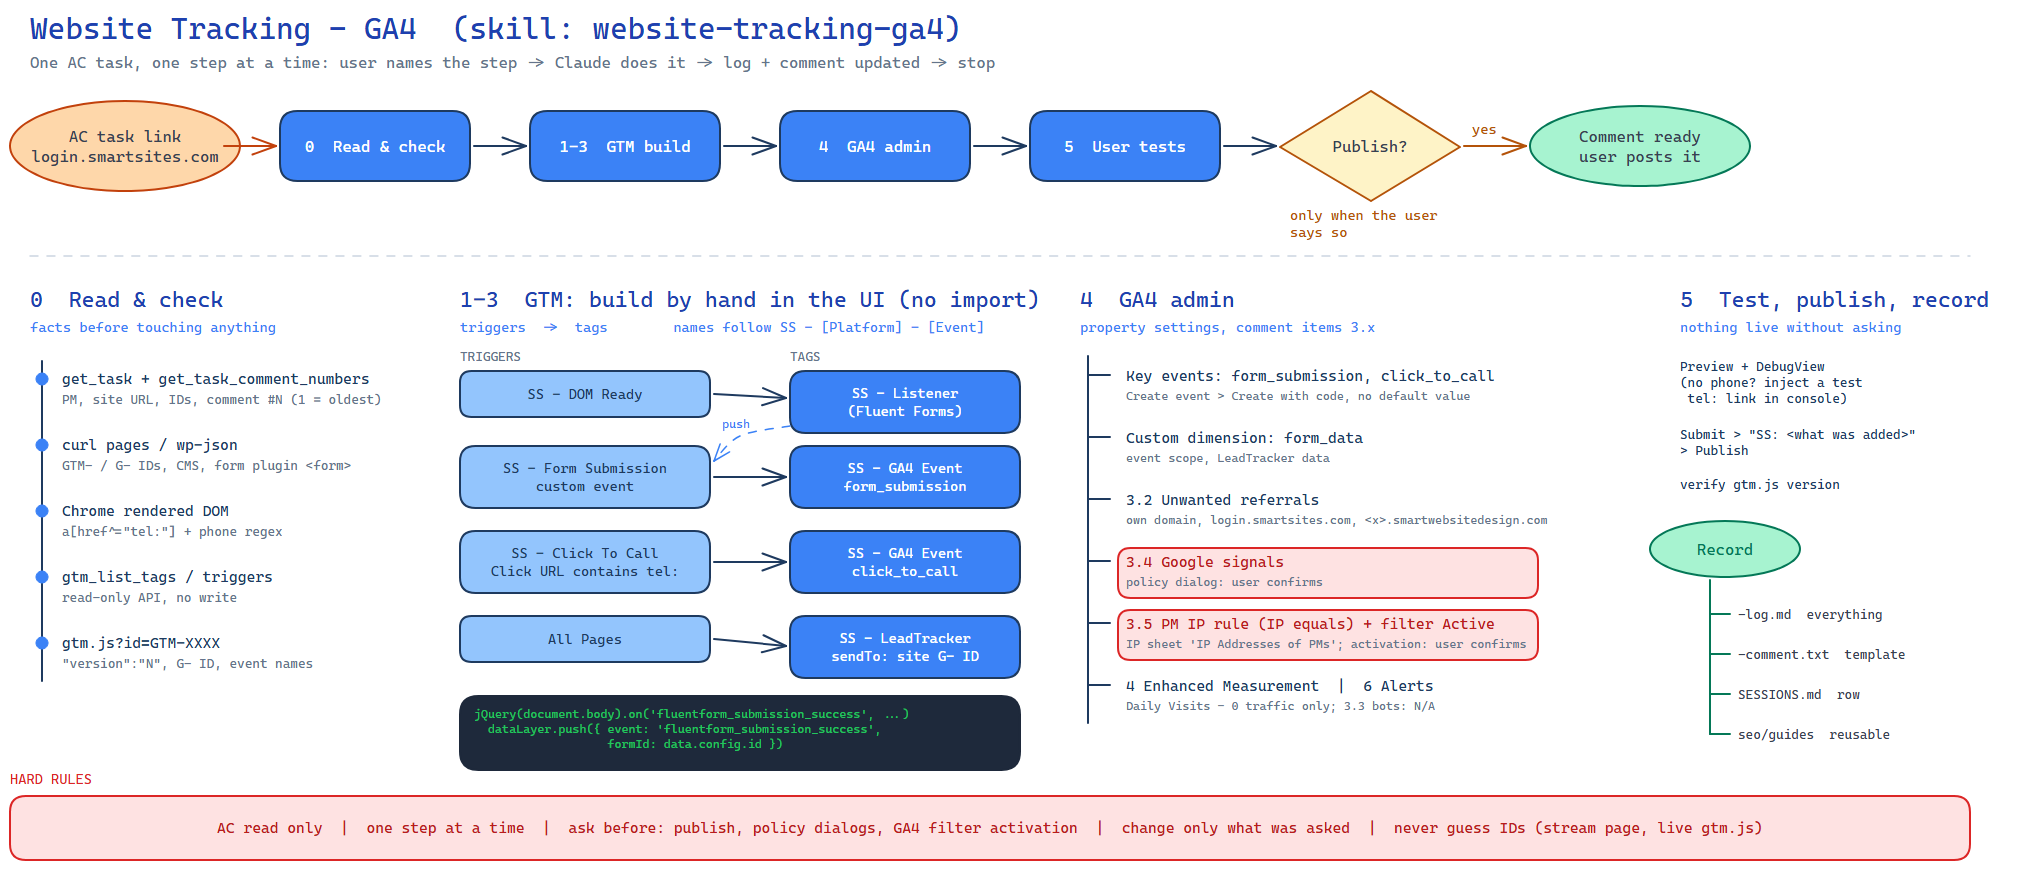
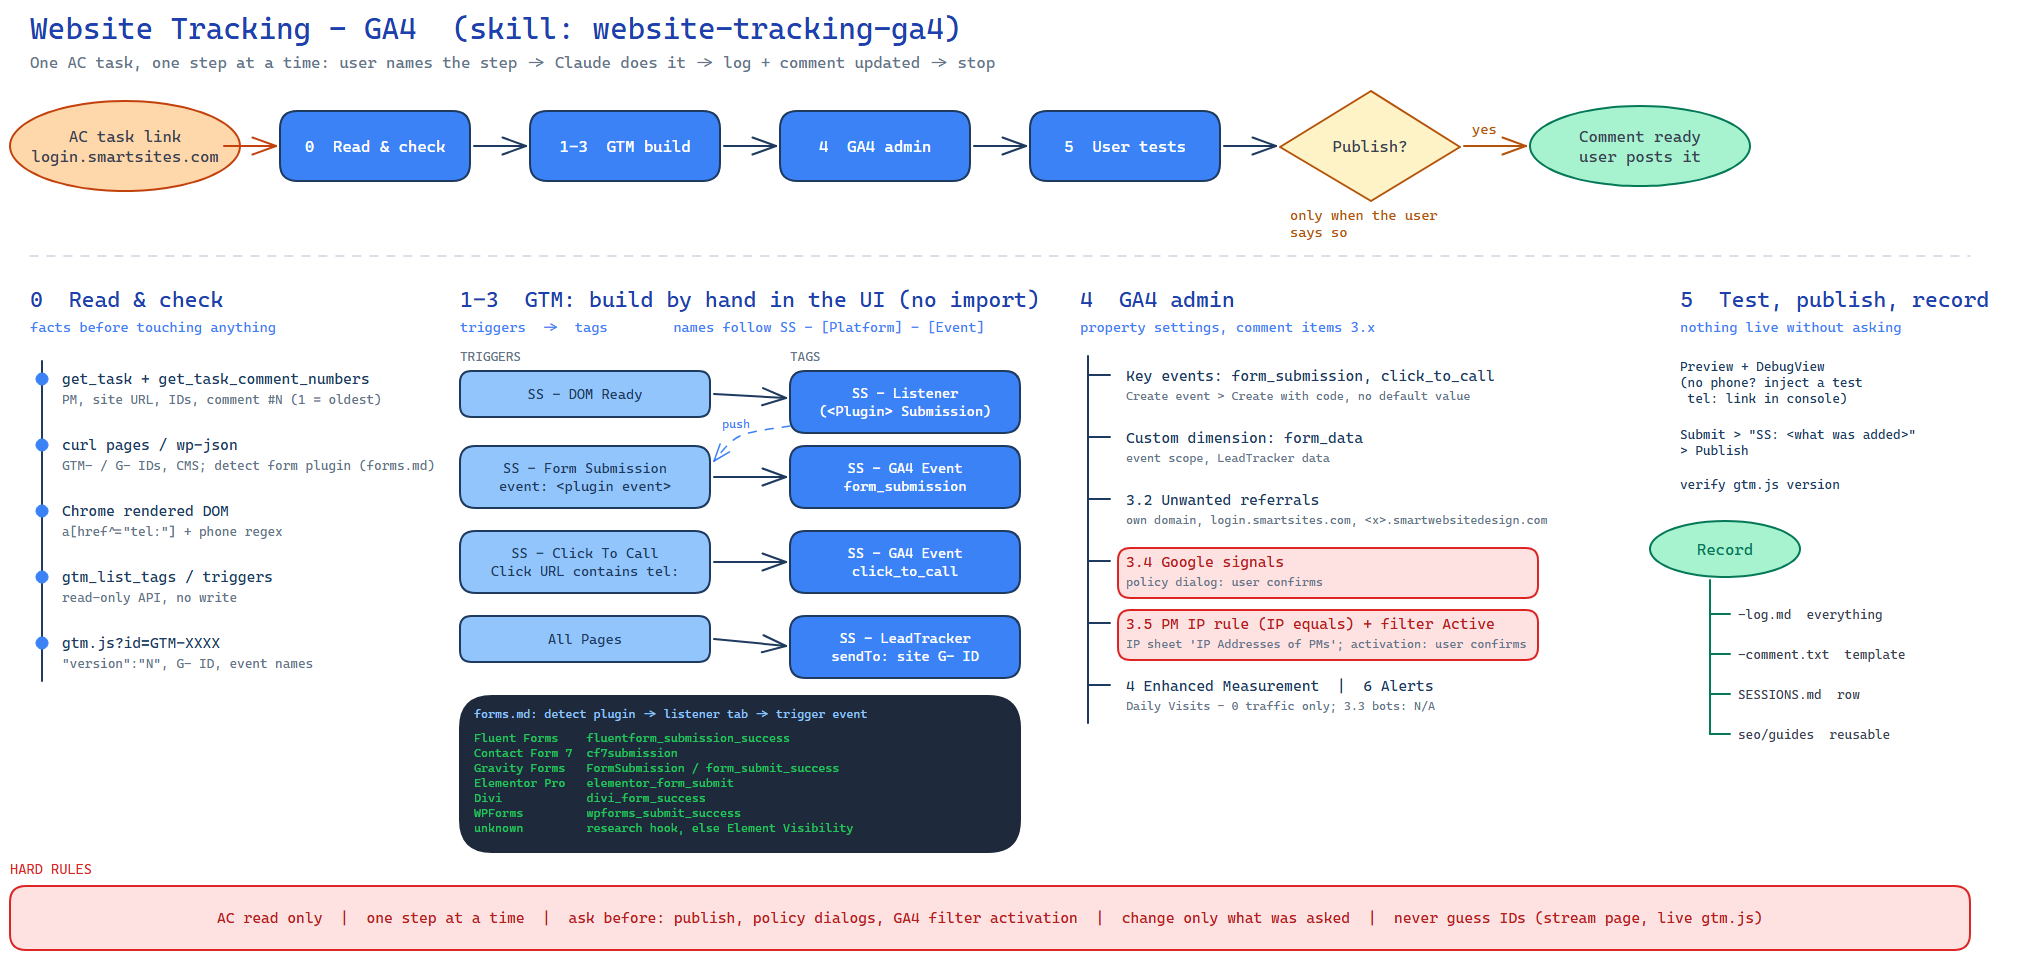
Make website-tracking-ga4 skill form-plugin agnostic
- forms.md: detect the form plugin (Chrome snippet), pick method A/B/C,
  per-plugin listener table from the "Anil Notes for Tracking - GA4" doc
  (Fluent, CF7, Gravity, Elementor, MetForm, Divi, Forminator, WPForms,
  Ninja, Fusion, HubSpot, custom LP) with the custom event for the
  SS - Form Submission trigger, unknown-plugin research steps, iframe
  limits, LeadTracker variants, per-plugin test.
- SKILL.md: Step 0/2/3 point to forms.md; fixed tag/trigger names.
- workflow diagram: listener/trigger generic, plugin -> event lookup.

diff --git a/website-tracking-ga4/forms.md b/website-tracking-ga4/forms.md
@@ -1,0 +1,68 @@
+# Forms: detect the plugin, pick the method, wire the trigger
+
+The GA4 side never changes: tag `SS - GA4 Event (Form Submission)`, event `form_submission`, params `form_name` (and `form_id` if the listener provides one), fired by trigger `SS - Form Submission`. **Only the trigger and listener change per form plugin.**
+
+Listener scripts: "Anil Notes for Tracking - GA4" doc https://docs.google.com/document/d/1RgYdzidICicV3PXqn7yRA7zD5ZoV6X4jvteBq77ffM8 (one tab per plugin; read it with `docs_get(include_tabs=true)` and copy the tab's script exactly).
+
+## 1. Detect (every form page, not just /contact/)
+List the pages that have forms (sitemap / `wp-json/wp/v2/pages`, then grep each page for `<form` and `<iframe`). On each form page, run this in Chrome (`javascript_tool`):
+
+```js
+(() => {
+  const sig = {
+    'Fluent Forms': 'form.frm-fluent-form', 'Contact Form 7': '.wpcf7 form', 'Gravity Forms': '.gform_wrapper form',
+    'Elementor Pro': 'form.elementor-form', 'MetForm': '.metform-form-content, .mf-form-wrapper', 'Divi': '.et_pb_contact_form',
+    'Forminator': 'form.forminator-custom-form', 'WPForms': 'form.wpforms-form', 'Ninja Forms': '.nf-form-cont',
+    'Formidable': 'form.frm-show-form', 'Avada/Fusion': 'form.fusion-form',
+    'HubSpot': '.hs-form, form[id^="hsForm_"], iframe[src*="hsforms"]',
+    'Iframe form (Typeform/Jotform/Google/other)': 'iframe[src*="typeform"], iframe[src*="jotform"], iframe[src*="google.com/forms"]'
+  };
+  return { found: Object.entries(sig).filter(([, s]) => document.querySelector(s)).map(([k]) => k),
+           forms: [...document.forms].map(f => ({ id: f.id, cls: f.className, action: f.action })) };
+})()
+```
+
+Also check what happens after a successful submit: is there a redirect to a thank-you URL, or an in-page message? Look at the plugin's form settings in WP admin if you have access; otherwise ask the user to do one test submit. Note it in the log.
+
+## 2. Pick the method (manual §6.1)
+| Situation | Method | Trigger `SS - Form Submission` |
+|---|---|---|
+| Redirects to a thank-you URL | **A** | Page View, Page URL contains `thank-you` (the real path) |
+| Plain HTML post, no AJAX, no redirect | **B** | Form Submission, Wait for Tags + Check Validation ON, optional Form ID filter |
+| AJAX / JS plugin (most WP plugins, HubSpot) | **C** | Custom Event = the listener's event (table below) + listener tag |
+| Plugin not in the table / no listener works | **C-fallback** | Element Visibility on the success-message selector, "Observe DOM changes" ON, once per page. Make sure the selector **cannot** match the error message |
+| Iframe from another domain (Typeform, Jotform, Google Forms...) | none from GTM | Can't track inside the iframe. Use the provider's redirect to a thank-you page (method A) or its own GA integration; tell the user and the PM |
+
+## 3. Plugin table (method C)
+| Plugin | Doc tab / source | Listener hooks | Custom Event for the trigger | Notes |
+|---|---|---|---|---|
+| Fluent Forms | `seo/guides/tracking/set-up-ga4-form-and-call-events.md` (Platform notes) | `jQuery(document.body)` `fluentform_submission_success` | `fluentform_submission_success` | Pushes `formId` (`DLV - formId`) |
+| Contact Form 7 | "CF7 Listener" | DOM event `wpcf7mailsent` | `cf7submission` | Fires only when the mail was sent |
+| Gravity Forms | "Gravity Form Listener" | several variants: PHP `gform_confirmation` (needs theme/hosting access) or JS | `FormSubmission` (PHP) / `form_submit_success` (JS) | Use the variant the tab marks for GTM; the PHP one needs a code change, so ask first |
+| Elementor Pro forms | "Elementor Forms" | XHR on `admin-ajax.php`, action `elementor_pro_forms_send_form` | `elementor_form_submit` | Alternative from the same tab: Element Visibility `.elementor-widget-form[data-id] form.elementor-form .elementor-message-success` |
+| Elementor + MetForm add-on | "Elementor W/ MetFrom adon" | `metform_response_success` | `elementor_form_submit` | |
+| MetForm | "Metform Listener" | success text visible in `.mf-response-msg p` | `metform_success` | Check that `SUCCESS_TEXT` matches the site's message |
+| Divi contact form | "Divi Form Listener" | jQuery `ajaxSuccess` on `et_pb_contactform` POST | `divi_form_success` | Skips responses with `.et_pb_contact_error_text` |
+| Forminator | "Forminator Form Listener" | `forminator:form:submit:success` | `forminator_form_submit` | Pushes `form_id` |
+| WPForms | "WPForms" | AJAX confirmation container / submit-success variant | `wpforms_submit_success` or `wpform_submit` | Several variants; use the one that matches the form's confirmation type |
+| Ninja Forms | "LT for Ninja Form" | `nfFormSubmitResponse` | `ninjaFormSubmission` | That tab also loads LeadTracker |
+| Avada / Fusion | "Fusion Form Listener" | `fusion-form-ajax-submit-done` | `form_submit` | |
+| HubSpot (embed v4) | "HS Form Listener (v4)" | `hs-form-event:on-submission:success` / `message` | `form_submission` | Same tab has the HubSpot LeadTracker loader; iframe embeds can't be read |
+| Custom landing page | "Custom LP DL" | input + submit | `form_submit_success` | |
+| Unknown plugin | research (below) | — | your own `<plugin>_submit_success` | Add a row here and a tab note in the log |
+
+Name the listener tag `SS - Listener (<Plugin> Submission)`, fired on `SS - DOM Ready` (or All Pages if the listener script waits for the DOM itself). Name the trigger `SS - Form Submission` whichever method is used, so the GA4 tag never changes. If the site has **two plugins**, make one trigger per plugin (`SS - Form Submission (CF7)`, ...) and attach all of them to the same GA4 tag.
+
+## 4. Unknown plugin: find the success hook (what was done for Fluent Forms)
+1. Find the plugin's front-end JS in the page (`<script src=".../plugins/<plugin>/...js">`) and grep it for `success`, `trigger(`, `triggerHandler(`, `dispatchEvent`, `CustomEvent`. Note on which element the event fires (document/body bubbles; a `triggerHandler` on the form does **not**).
+2. If there is no event: watch the Network tab during a test submit and hook the XHR/fetch response (pattern: the "Elementor Forms" or "Divi" tabs).
+3. Last resort: Element Visibility on the success message (method C-fallback).
+4. Write the result into this table and into the seo guide's Platform notes.
+
+## 5. LeadTracker and the form
+- Standard LeadTracker hooks the form's `submit`. It works for native and AJAX forms (if the plugin already called preventDefault, LeadTracker only sends the data and does not resubmit).
+- If the plugin submits on a **button click without a real `submit` event** (e.g. Formidable `.frm_button_submit`, some Forminator setups), use the doc's "LeadTracker with class name" variant: `$('<submit button selector>').click(function () { LeadTracker($).sendData($(this).closest('form')); })`.
+- Iframe forms: LeadTracker can't see them either.
+
+## 6. Test per plugin
+Submit once valid and once with a required field empty. The custom event (or page view / visibility event) must appear **once**, only on success, and `SS - GA4 Event (Form Submission)` must fire. DebugView shows `form_submission`.

diff --git a/website-tracking-ga4/SKILL.md b/website-tracking-ga4/SKILL.md
@@ -1,12 +1,13 @@
 ---
 name: website-tracking-ga4
-description: Work a SmartSites ActiveCollab "Website Tracking - GA4" task end to end — read the AC task (read only), check the site, build GTM tags (GA4 page view, form_submission, click_to_call, LeadTracker) in the browser, configure GA4 admin (key events, form_data dimension, unwanted referrals, Google signals, PM IP filter, Enhanced Measurement, alerts), publish GTM on the user's say-so, and draft the AC comment from the template. Use when the user gives a login.smartsites.com task link titled "Website Tracking - GA4", or asks for GA4/GTM/LeadTracker/key-event/referral-exclusion/PM-IP setup on a client site.
+description: Work a SmartSites ActiveCollab "Website Tracking - GA4" task end to end — read the AC task (read only), check the site and detect its form plugin (CF7, Gravity, Elementor, Fluent, WPForms, Divi, HubSpot, ...), build GTM tags (GA4 page view, form_submission via the right per-plugin listener, click_to_call, LeadTracker) in the browser, configure GA4 admin (key events, form_data dimension, unwanted referrals, Google signals, PM IP filter, Enhanced Measurement, alerts), publish GTM on the user's say-so, and draft the AC comment from the template. Use when the user gives a login.smartsites.com task link titled "Website Tracking - GA4", or asks for GA4/GTM/LeadTracker/key-event/referral-exclusion/PM-IP setup on a client site.
 ---
 
 # Website Tracking - GA4 (SmartSites)
 
 Worked example: `D:\work\seo\Website Tracking - GA4\catalystluxuryresidential.com\10-29-2026-504272-log.md` (WordPress + Divi + Fluent Forms, existing GA4, no phone number, 2026-10-30).
-Form/call how-to (methods A/B/C, Fluent Forms listener, Preview + DebugView testing): `D:\work\seo\guides\tracking\set-up-ga4-form-and-call-events.md`.
+**Forms differ per site:** `forms.md` (next to this file) covers plugin detection, choosing the method, the listener and event per plugin, and unknown plugins.
+Form/call testing how-to (Preview + DebugView): `D:\work\seo\guides\tracking\set-up-ga4-form-and-call-events.md`.
 Workflow diagram: `workflow.png` (source `workflow.excalidraw`, open at excalidraw.com).
 
 ## Hard rules
@@ -24,7 +25,7 @@ Workflow diagram: `workflow.png` (source `workflow.excalidraw`, open at excalidr
 
 ## Step 0 — Read and check
 1. `get_task`, `get_task_comments(limit 0)`, `get_task_comment_numbers`. Note the PM, the site URL (confirm it; the AC project name can differ from the domain), GTM/GA4 IDs already mentioned, and the requested conversions.
-2. Site: `curl` the pages (sitemap / `wp-json/wp/v2/pages`). Look for: GTM-/G-/AW- IDs, CMS/theme, form plugin (`<form` classes), `tel:` links and phone text. Recheck phones in the **rendered** DOM in Chrome (`a[href^="tel:"]`, a regex on `innerText`).
+2. Site: `curl` the pages (sitemap / `wp-json/wp/v2/pages`). Look for: GTM-/G-/AW- IDs, CMS/theme, form plugin on every form page (run the detect snippet in forms.md §1), what happens after a submit (redirect or in-page message), `tel:` links and phone text. Recheck phones in the **rendered** DOM in Chrome (`a[href^="tel:"]`, a regex on `innerText`).
 3. GTM contents via API: `gtm_list_tags/triggers/variables` with `accounts/<acc>/containers/<id>` (read only; there is no write API).
 4. Live container: `curl "https://www.googletagmanager.com/gtm.js?id=GTM-XXXX"` and grep `"version"`, the G- ID and the event names.
 
@@ -47,10 +48,12 @@ Workflow diagram: `workflow.png` (source `workflow.excalidraw`, open at excalidr
 - Import the BED template GTM-PFVL7Z84 "! Template for Exclude Internal Traffic in GA4" (Merge into the workspace). Rename the example Google tag to `SS - GA4 Page View` with the property's G- ID. On WordPress, rename tag "...Save Internal Traffic Type (Optional, only for wordpress sites)" to drop the "(Optional...)" part. Check the Page View tag's configuration parameters include the traffic type, otherwise the template's exclusions don't reach GA4.
 
 ## Step 2 — Form + call events (manual §6)
-Follow the guide. Names: triggers `SS - Form Submission`, `SS - Click To Call` (Just Links, Click URL contains `tel:`); tags `SS - GA4 Event (Form Submission)` (event `form_submission`, `form_name`, `form_id`), `SS - GA4 Event (Click To Call)` (event `click_to_call`, `click_url = {{Click URL}}`). Enable built-ins Click URL and Click Text. Form listeners per plugin: "Anil Notes for Tracking - GA4" doc https://docs.google.com/document/d/1RgYdzidICicV3PXqn7yRA7zD5ZoV6X4jvteBq77ffM8 (tabs: Gravity, HubSpot, Metform, Divi, Forminator, Elementor, Fusion, CF7, WPForms, Ninja; Fluent Forms is in the guide).
+**Forms: follow `forms.md`.** Detect the plugin on every form page, pick method A/B/C, copy the plugin's listener from the "Anil Notes for Tracking - GA4" doc (https://docs.google.com/document/d/1RgYdzidICicV3PXqn7yRA7zD5ZoV6X4jvteBq77ffM8, one tab per plugin), and set `SS - Form Submission` to that plugin's event. For a plugin not in the table, research its success hook (forms.md §4), then add a row for it. Tell the user which plugin and method you found before building.
+Fixed names, whatever the plugin: trigger `SS - Form Submission`; tag `SS - GA4 Event (Form Submission)` (event `form_submission`, `form_name`, plus `form_id` if the listener pushes one); listener tag `SS - Listener (<Plugin> Submission)`.
+**Calls:** trigger `SS - Click To Call` (Just Links, Click URL contains `tel:`); tag `SS - GA4 Event (Click To Call)` (event `click_to_call`, `click_url = {{Click URL}}`). Enable built-ins Click URL and Click Text.
 
 ## Step 3 — LeadTracker
-Custom HTML tag `SS - LeadTracker`, All Pages, using the script from the doc above (tab "LeadTracker"; "LT with CR" if numbers are swapped). **Replace the `sendTo` G- ID with this site's ID**; every example in the doc has another site's ID. It hooks `form` submit; with AJAX forms that preventDefault it only sends data (safe). Its GA4 event is `ss_lt_form_submission` with param `form_data`, which requires a global `gtag`; check `typeof gtag` in Preview.
+Custom HTML tag `SS - LeadTracker`, All Pages, using the script from the doc above (tab "LeadTracker"; "LT with CR" if numbers are swapped). **Replace the `sendTo` G- ID with this site's ID**; every example in the doc has another site's ID. It hooks `form` submit; with AJAX forms that preventDefault it only sends data (safe). Button-click-only forms or HubSpot need the variant in forms.md §5. Its GA4 event is `ss_lt_form_submission` with param `form_data`, which requires a global `gtag`; check `typeof gtag` in Preview.
 
 ## Step 4 — GA4 admin
 | Item | Path | Notes |
